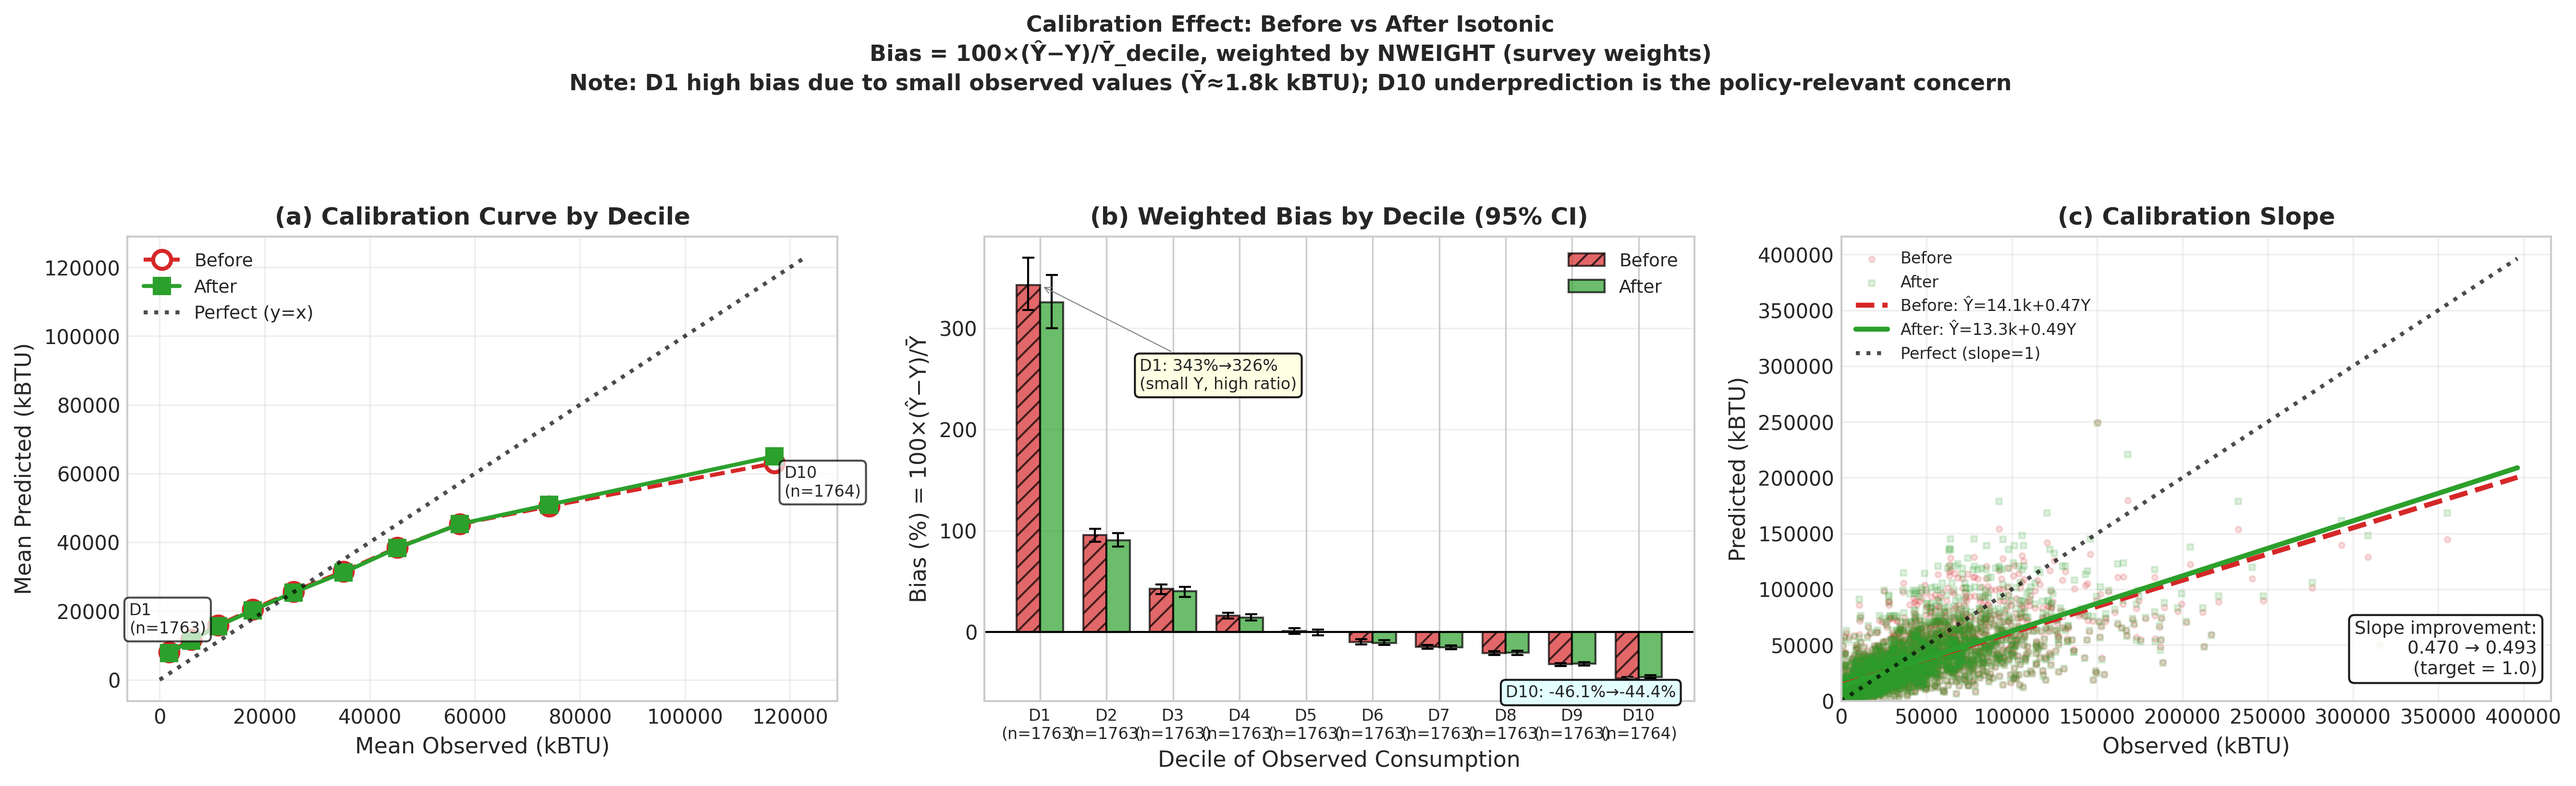
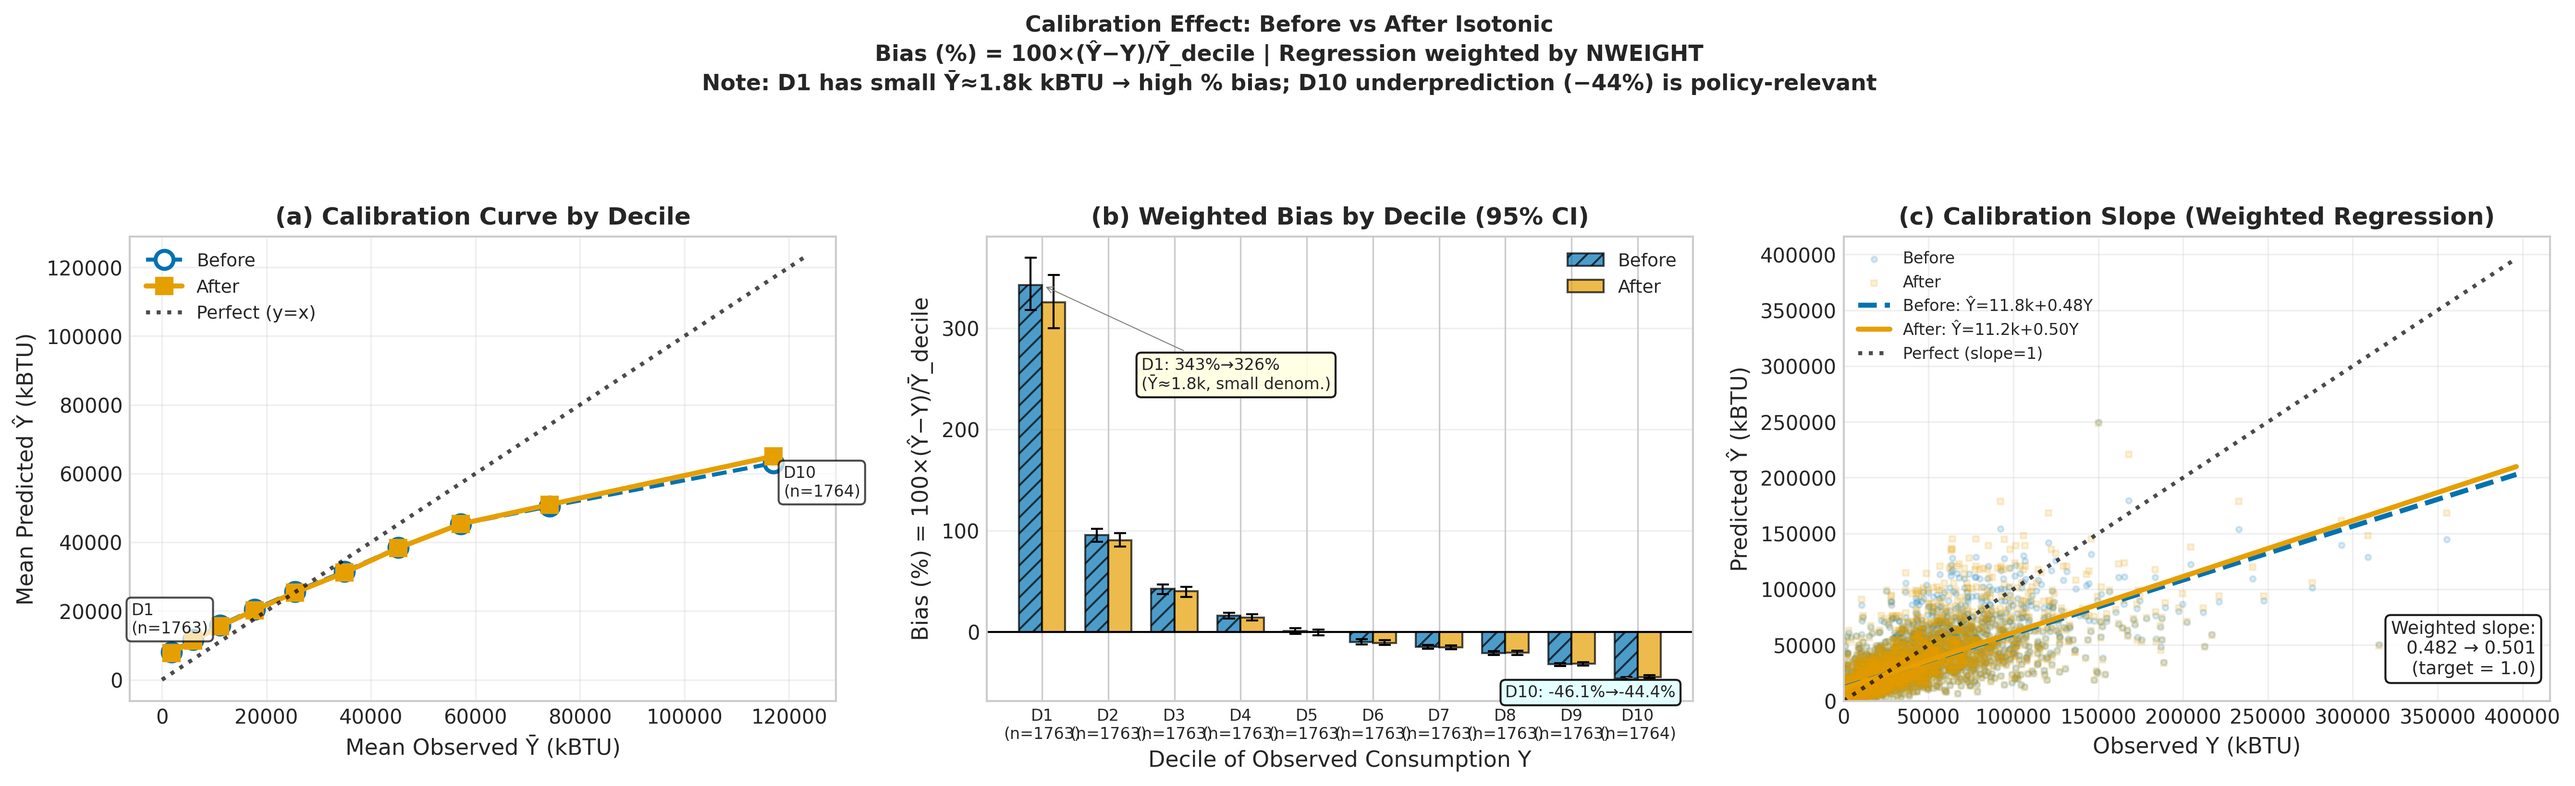
Refine calibration plot and table descriptions

diff --git a/src/visualization/plots.py b/src/visualization/plots.py
@@ -914,18 +914,21 @@ class HeatingDemandVisualizer:
         
         # ===== Panel 1: Calibration curves with markers =====
         ax = axes[0]
-        # Use different markers and line styles for colorblind accessibility
-        ax.plot(true_means, pred_means_b, 'o--', color='#D62728', label='Before', 
+        # Colorblind-safe palette: blue (#0072B2) vs orange (#E69F00)
+        color_before = '#0072B2'  # Blue
+        color_after = '#E69F00'   # Orange
+        
+        ax.plot(true_means, pred_means_b, 'o--', color=color_before, label='Before', 
                 markersize=9, linewidth=2, markerfacecolor='white', markeredgewidth=2)
-        ax.plot(true_means, pred_means_a, 's-', color='#2CA02C', label='After',
-                markersize=8, linewidth=2)
+        ax.plot(true_means, pred_means_a, 's-', color=color_after, label='After',
+                markersize=8, linewidth=2.5)
         
         # Perfect calibration line
         max_val = max(max(true_means), max(pred_means_b), max(pred_means_a)) * 1.05
         ax.plot([0, max_val], [0, max_val], 'k:', label='Perfect (y=x)', linewidth=2, alpha=0.7)
         
-        ax.set_xlabel('Mean Observed (kBTU)', fontsize=11)
-        ax.set_ylabel('Mean Predicted (kBTU)', fontsize=11)
+        ax.set_xlabel('Mean Observed Ȳ (kBTU)', fontsize=11)
+        ax.set_ylabel('Mean Predicted Ŷ (kBTU)', fontsize=11)
         ax.set_title('(a) Calibration Curve by Decile', fontsize=12, fontweight='bold')
         ax.legend(loc='upper left', fontsize=9)
         ax.grid(alpha=0.3)
@@ -943,11 +946,11 @@ class HeatingDemandVisualizer:
         x = np.arange(len(deciles))
         width = 0.35
         
-        # Bars with error bars - different hatching for accessibility
+        # Colorblind-safe: blue with hatching vs orange solid
         bars1 = ax.bar(x - width/2, bias_pct_b, width, label='Before', 
-                      color='#D62728', alpha=0.7, hatch='///', edgecolor='black')
+                      color=color_before, alpha=0.7, hatch='///', edgecolor='black')
         bars2 = ax.bar(x + width/2, bias_pct_a, width, label='After', 
-                      color='#2CA02C', alpha=0.7, edgecolor='black')
+                      color=color_after, alpha=0.7, edgecolor='black')
         
         # Add error bars (95% CI from bootstrap)
         ax.errorbar(x - width/2, bias_pct_b, yerr=[ci_b_lower, ci_b_upper], 
@@ -956,16 +959,16 @@ class HeatingDemandVisualizer:
                    fmt='none', color='black', capsize=3, linewidth=1)
         
         ax.axhline(y=0, color='black', linestyle='-', linewidth=1)
-        ax.set_xlabel('Decile of Observed Consumption', fontsize=11)
-        ax.set_ylabel('Bias (%) = 100×(Ŷ−Y)/Ȳ', fontsize=11)
+        ax.set_xlabel('Decile of Observed Consumption Y', fontsize=11)
+        ax.set_ylabel('Bias (%) = 100×(Ŷ−Y)/Ȳ_decile', fontsize=11)
         ax.set_title('(b) Weighted Bias by Decile (95% CI)', fontsize=12, fontweight='bold')
         ax.set_xticks(x)
         ax.set_xticklabels([f'D{d}\n(n={n})' for d, n in zip(deciles, n_per_decile)], fontsize=8)
         ax.legend(loc='upper right', fontsize=9)
         ax.grid(alpha=0.3, axis='y')
         
-        # Annotate extreme deciles
-        ax.annotate(f'D1: {bias_pct_b[0]:.0f}%→{bias_pct_a[0]:.0f}%\n(small Y, high ratio)',
+        # Annotate extreme deciles - note: Ȳ (observed mean) is small, not Ŷ
+        ax.annotate(f'D1: {bias_pct_b[0]:.0f}%→{bias_pct_a[0]:.0f}%\n(Ȳ≈{true_means[0]/1000:.1f}k, small denom.)',
                    xy=(x[0], max(bias_pct_b[0], bias_pct_a[0])), 
                    xytext=(x[0]+1.5, max(bias_pct_b[0], bias_pct_a[0])*0.7),
                    fontsize=8, arrowprops=dict(arrowstyle='->', color='gray', lw=0.5),
@@ -977,7 +980,7 @@ class HeatingDemandVisualizer:
                    fontsize=8, arrowprops=dict(arrowstyle='->', color='gray', lw=0.5),
                    bbox=dict(boxstyle='round', facecolor='lightcyan', alpha=0.9))
         
-        # ===== Panel 3: Scatter with calibration slopes =====
+        # ===== Panel 3: Scatter with calibration slopes (WEIGHTED regression) =====
         ax = axes[2]
         
         # Subsample for visibility
@@ -986,26 +989,39 @@ class HeatingDemandVisualizer:
         idx = np.random.choice(len(y_true), n_plot, replace=False)
         
         # Different markers for accessibility
-        ax.scatter(y_true[idx], y_pred_before[idx], alpha=0.15, s=8, c='#D62728', 
+        ax.scatter(y_true[idx], y_pred_before[idx], alpha=0.15, s=8, c=color_before, 
                   marker='o', label='Before')
-        ax.scatter(y_true[idx], y_pred_after[idx], alpha=0.15, s=8, c='#2CA02C', 
+        ax.scatter(y_true[idx], y_pred_after[idx], alpha=0.15, s=8, c=color_after, 
                   marker='s', label='After')
         
-        # Fit calibration lines
-        from scipy import stats as scipy_stats
-        slope_b, intercept_b, _, _, _ = scipy_stats.linregress(y_true, y_pred_before)
-        slope_a, intercept_a, _, _, _ = scipy_stats.linregress(y_true, y_pred_after)
+        # Fit WEIGHTED calibration lines using NWEIGHT
+        # Weighted linear regression: Ŷ = a + b*Y
+        def weighted_linregress(x, y, w):
+            """Compute weighted linear regression slope and intercept."""
+            w_sum = np.sum(w)
+            x_mean = np.sum(w * x) / w_sum
+            y_mean = np.sum(w * y) / w_sum
+            
+            numerator = np.sum(w * (x - x_mean) * (y - y_mean))
+            denominator = np.sum(w * (x - x_mean) ** 2)
+            
+            slope = numerator / denominator if denominator > 0 else 0
+            intercept = y_mean - slope * x_mean
+            return slope, intercept
+        
+        slope_b, intercept_b = weighted_linregress(y_true, y_pred_before, weights)
+        slope_a, intercept_a = weighted_linregress(y_true, y_pred_after, weights)
         
         x_line = np.array([0, y_true.max()])
-        ax.plot(x_line, slope_b * x_line + intercept_b, '--', color='#D62728', linewidth=2.5,
+        ax.plot(x_line, slope_b * x_line + intercept_b, '--', color=color_before, linewidth=2.5,
                label=f'Before: Ŷ={intercept_b/1000:.1f}k+{slope_b:.2f}Y')
-        ax.plot(x_line, slope_a * x_line + intercept_a, '-', color='#2CA02C', linewidth=2.5,
+        ax.plot(x_line, slope_a * x_line + intercept_a, '-', color=color_after, linewidth=2.5,
                label=f'After: Ŷ={intercept_a/1000:.1f}k+{slope_a:.2f}Y')
         ax.plot(x_line, x_line, 'k:', label='Perfect (slope=1)', linewidth=2, alpha=0.7)
         
-        ax.set_xlabel('Observed (kBTU)', fontsize=11)
-        ax.set_ylabel('Predicted (kBTU)', fontsize=11)
-        ax.set_title('(c) Calibration Slope', fontsize=12, fontweight='bold')
+        ax.set_xlabel('Observed Y (kBTU)', fontsize=11)
+        ax.set_ylabel('Predicted Ŷ (kBTU)', fontsize=11)
+        ax.set_title('(c) Calibration Slope (Weighted Regression)', fontsize=12, fontweight='bold')
         ax.legend(loc='upper left', fontsize=8)
         ax.grid(alpha=0.3)
         
@@ -1014,17 +1030,17 @@ class HeatingDemandVisualizer:
         ax.set_xlim(0, max_lim)
         ax.set_ylim(0, max_lim)
         
-        # Add text box explaining slope
-        ax.text(0.98, 0.05, f'Slope improvement:\n{slope_b:.3f} → {slope_a:.3f}\n(target = 1.0)',
+        # Add text box explaining slope (weighted)
+        ax.text(0.98, 0.05, f'Weighted slope:\n{slope_b:.3f} → {slope_a:.3f}\n(target = 1.0)',
                transform=ax.transAxes, fontsize=9, verticalalignment='bottom',
                horizontalalignment='right',
                bbox=dict(boxstyle='round', facecolor='white', alpha=0.9))
         
         # Main title with formula explanation
         fig.suptitle(f'{title}\n'
-                    f'Bias = 100×(Ŷ−Y)/Ȳ_decile, weighted by NWEIGHT (survey weights)\n'
-                    f'Note: D1 high bias due to small observed values (Ȳ≈{true_means[0]/1000:.1f}k kBTU); '
-                    f'D10 underprediction is the policy-relevant concern', 
+                    f'Bias (%) = 100×(Ŷ−Y)/Ȳ_decile | Regression weighted by NWEIGHT\n'
+                    f'Note: D1 has small Ȳ≈{true_means[0]/1000:.1f}k kBTU → high % bias; '
+                    f'D10 underprediction (−{abs(bias_pct_a[-1]):.0f}%) is policy-relevant', 
                     fontsize=11, fontweight='bold')
         plt.tight_layout(rect=[0, 0, 1, 0.90])
         return fig

diff --git a/run_analysis.py b/run_analysis.py
@@ -830,9 +830,11 @@ def save_results(df: pd.DataFrame,
             calib_df,
             str(tables_dir / 'table_calibration_comparison.csv'),
             "Calibration effect: Before = raw LightGBM (Tweedie), After = isotonic calibration. "
-            "Bias formula: 100×(Ŷ−Y)/Ȳ. D1 (bottom decile) has high % bias because mean observed is very small "
-            f"({bottom_mean:,.0f} kBTU); absolute bias is {bottom_bias_after:,.0f} kBTU. "
+            "Bias (%) = 100×(Ŷ−Y)/Ȳ_decile where Ȳ_decile is mean observed in each decile. "
+            f"D1 (bottom decile) has high % bias because Ȳ≈{bottom_mean:,.0f} kBTU is small; "
+            f"absolute bias is only {bottom_bias_after:,.0f} kBTU. "
             "D10 (top decile) underprediction is the policy-relevant concern for retrofit targeting. "
+            "Calibration slope computed via weighted regression (NWEIGHT). "
             "All metrics weighted by NWEIGHT (survey weights representing US household population)."
         )
         print("\nTable: Calibration Comparison (Before vs After Isotonic)")
